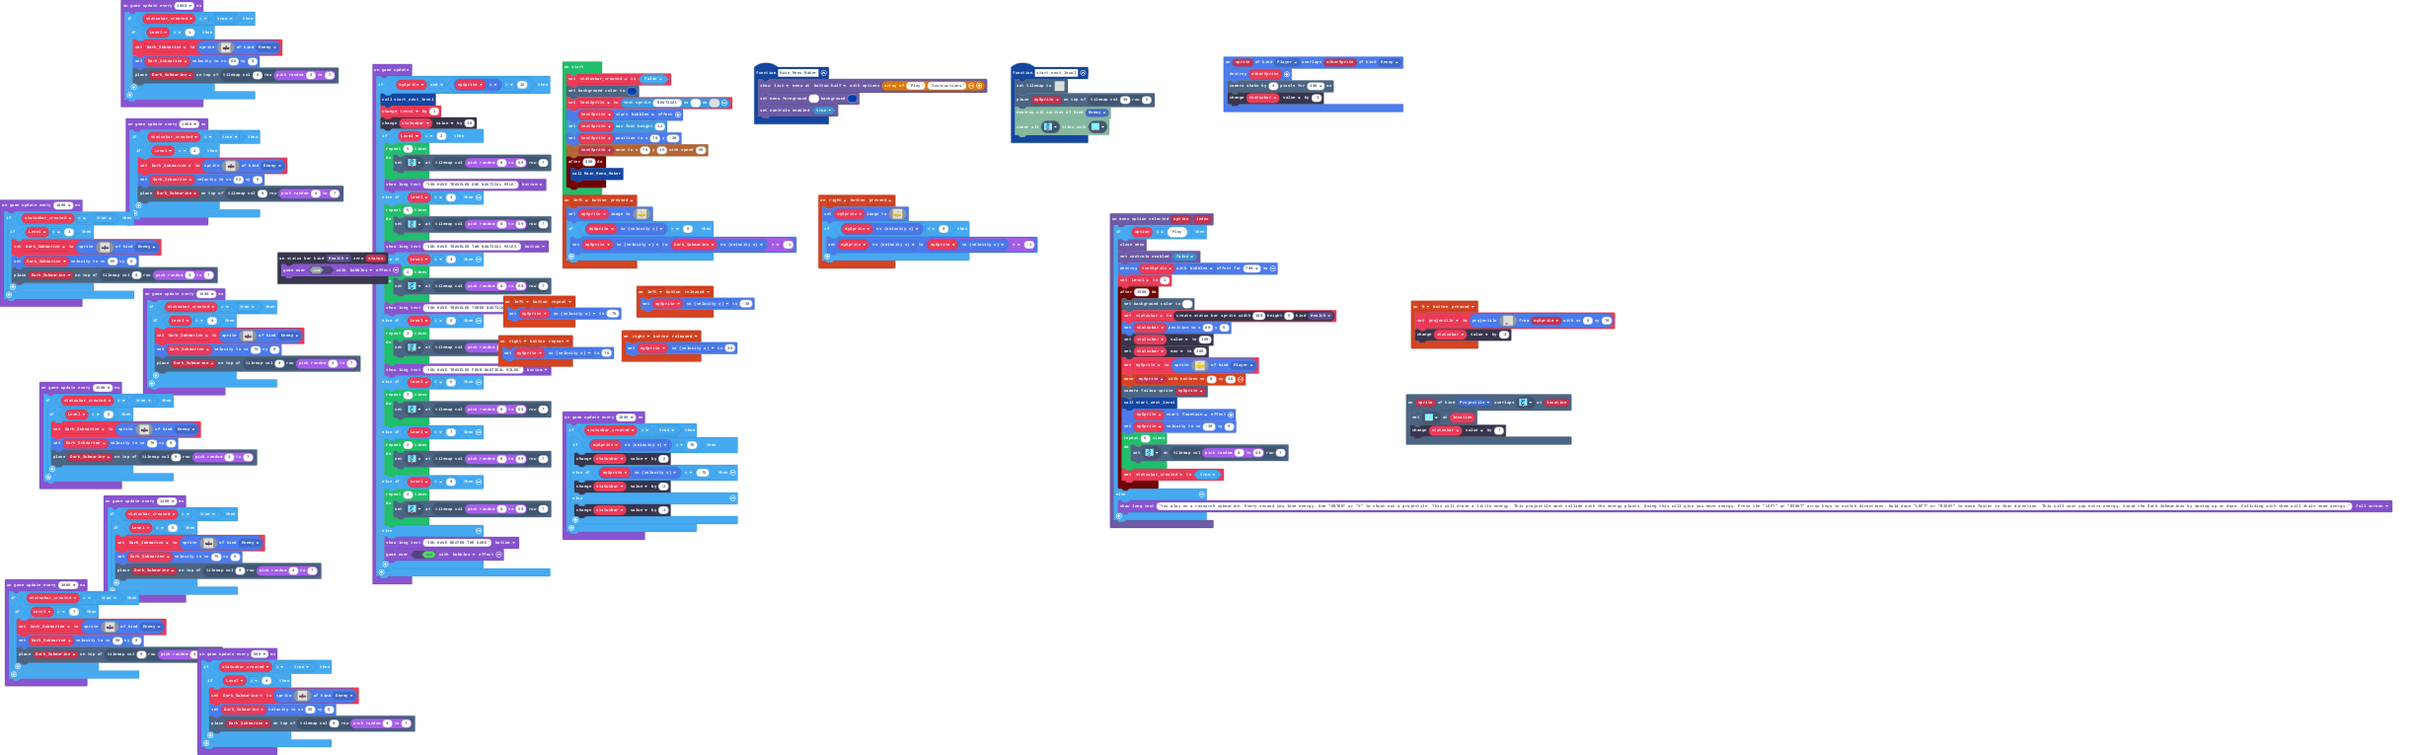
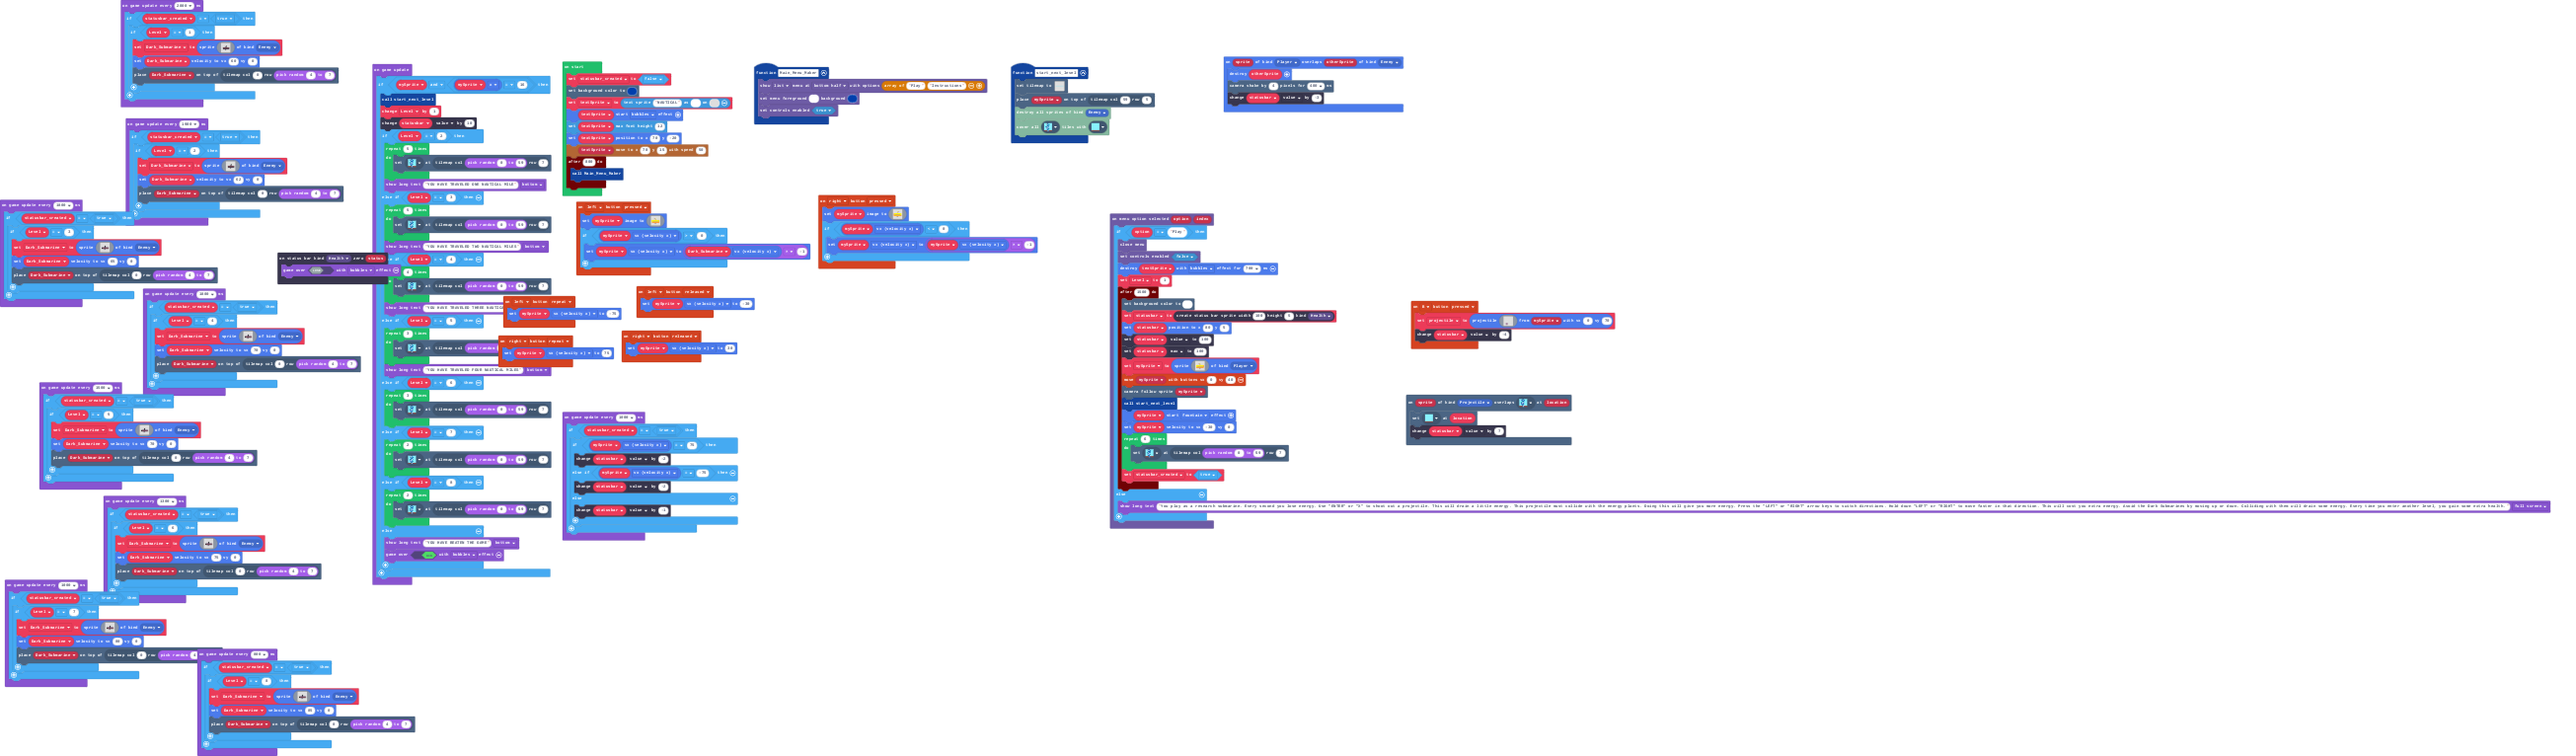
Update pxt.json, main.blocks, main.ts

Changed region(s): [[0.0, 0.0, 0.9927, 1.0]]

diff --git a/main.ts b/main.ts
@@ -154,7 +154,7 @@ blockMenu.onMenuOptionSelected(function (option, index) {
             statusbar_created = true
         })
     } else {
-        game.showLongText("You play as a research submarine. Every second you lose energy. Use \"ENTER\" or \"X\" to shoot out a projectile. This will drain a little energy. This projectile must collide with the energy plants. Doing this will give you more energy. Press the \"LEFT\" or \"RIGHT\" arrow keys to switch directions. Hold down \"LEFT\" or \"RIGHT\" to move faster in that direction. This will cost you extra energy. Avoid the Dark Submarines by moving up or down. Colliding with them will drain some energy.", DialogLayout.Full)
+        game.showLongText("You play as a research submarine. Every second you lose energy. Use \"ENTER\" or \"X\" to shoot out a projectile. This will drain a little energy. This projectile must collide with the energy plants. Doing this will give you more energy. Press the \"LEFT\" or \"RIGHT\" arrow keys to switch directions. Hold down \"LEFT\" or \"RIGHT\" to move faster in that direction. This will cost you extra energy. Avoid the Dark Submarines by moving up or down. Colliding with them will drain some energy. Every time you enter another level, you gain some extra health.", DialogLayout.Full)
     }
 })
 sprites.onOverlap(SpriteKind.Player, SpriteKind.Enemy, function (sprite, otherSprite) {
